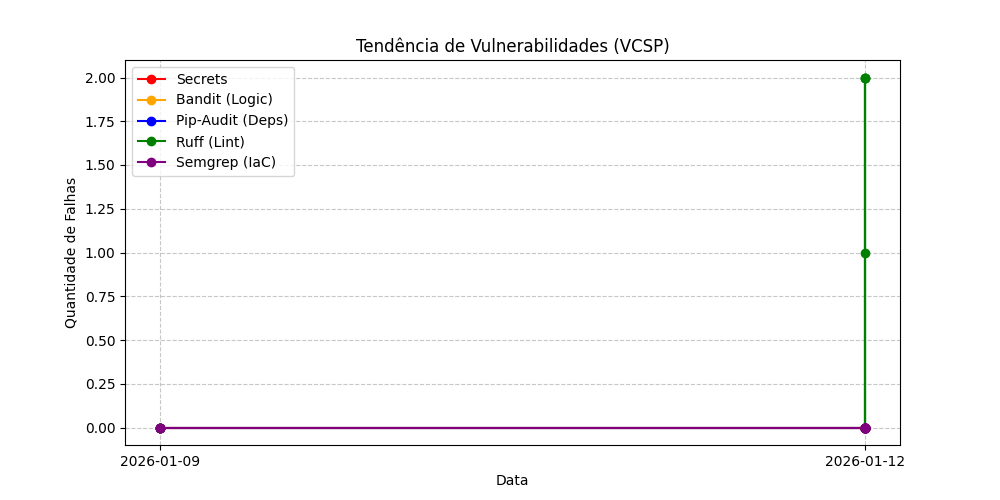
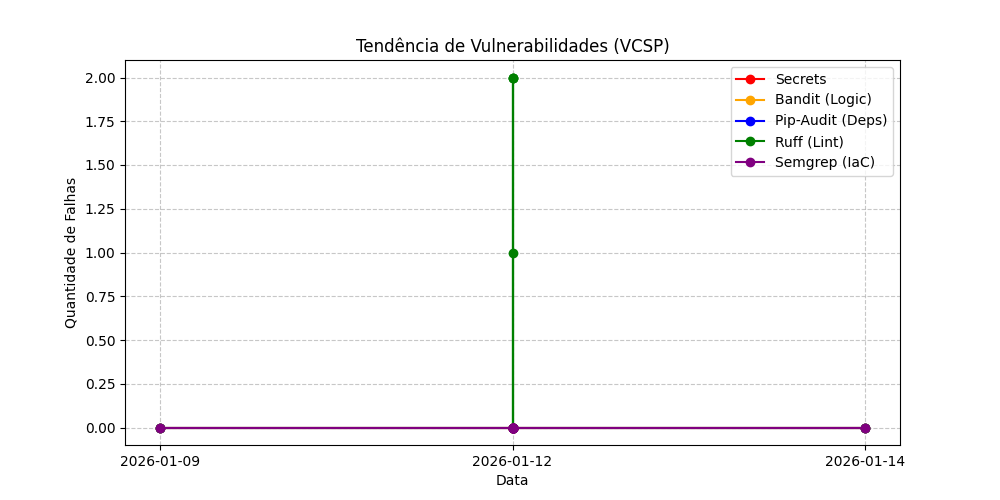
docs: update security trend chart

diff --git a/README.md b/README.md
@@ -144,7 +144,7 @@ O VCSP já vem configurado para rodar uma auditoria completa **toda segunda-feir
 *   **Objetivo:** Gerar um relatório de tudo que foi produzido na semana anterior.
 *   **Benefício:** Permite que você revise e corrija dívidas técnicas ou de segurança antes de iniciar o novo ciclo de desenvolvimento.
 
-![Bug Trend](.vibe/assets/bug_trend.png?v=20260112150314)
+![Bug Trend](.vibe/assets/bug_trend.png?v=20260114015816)
 
 ---
 
